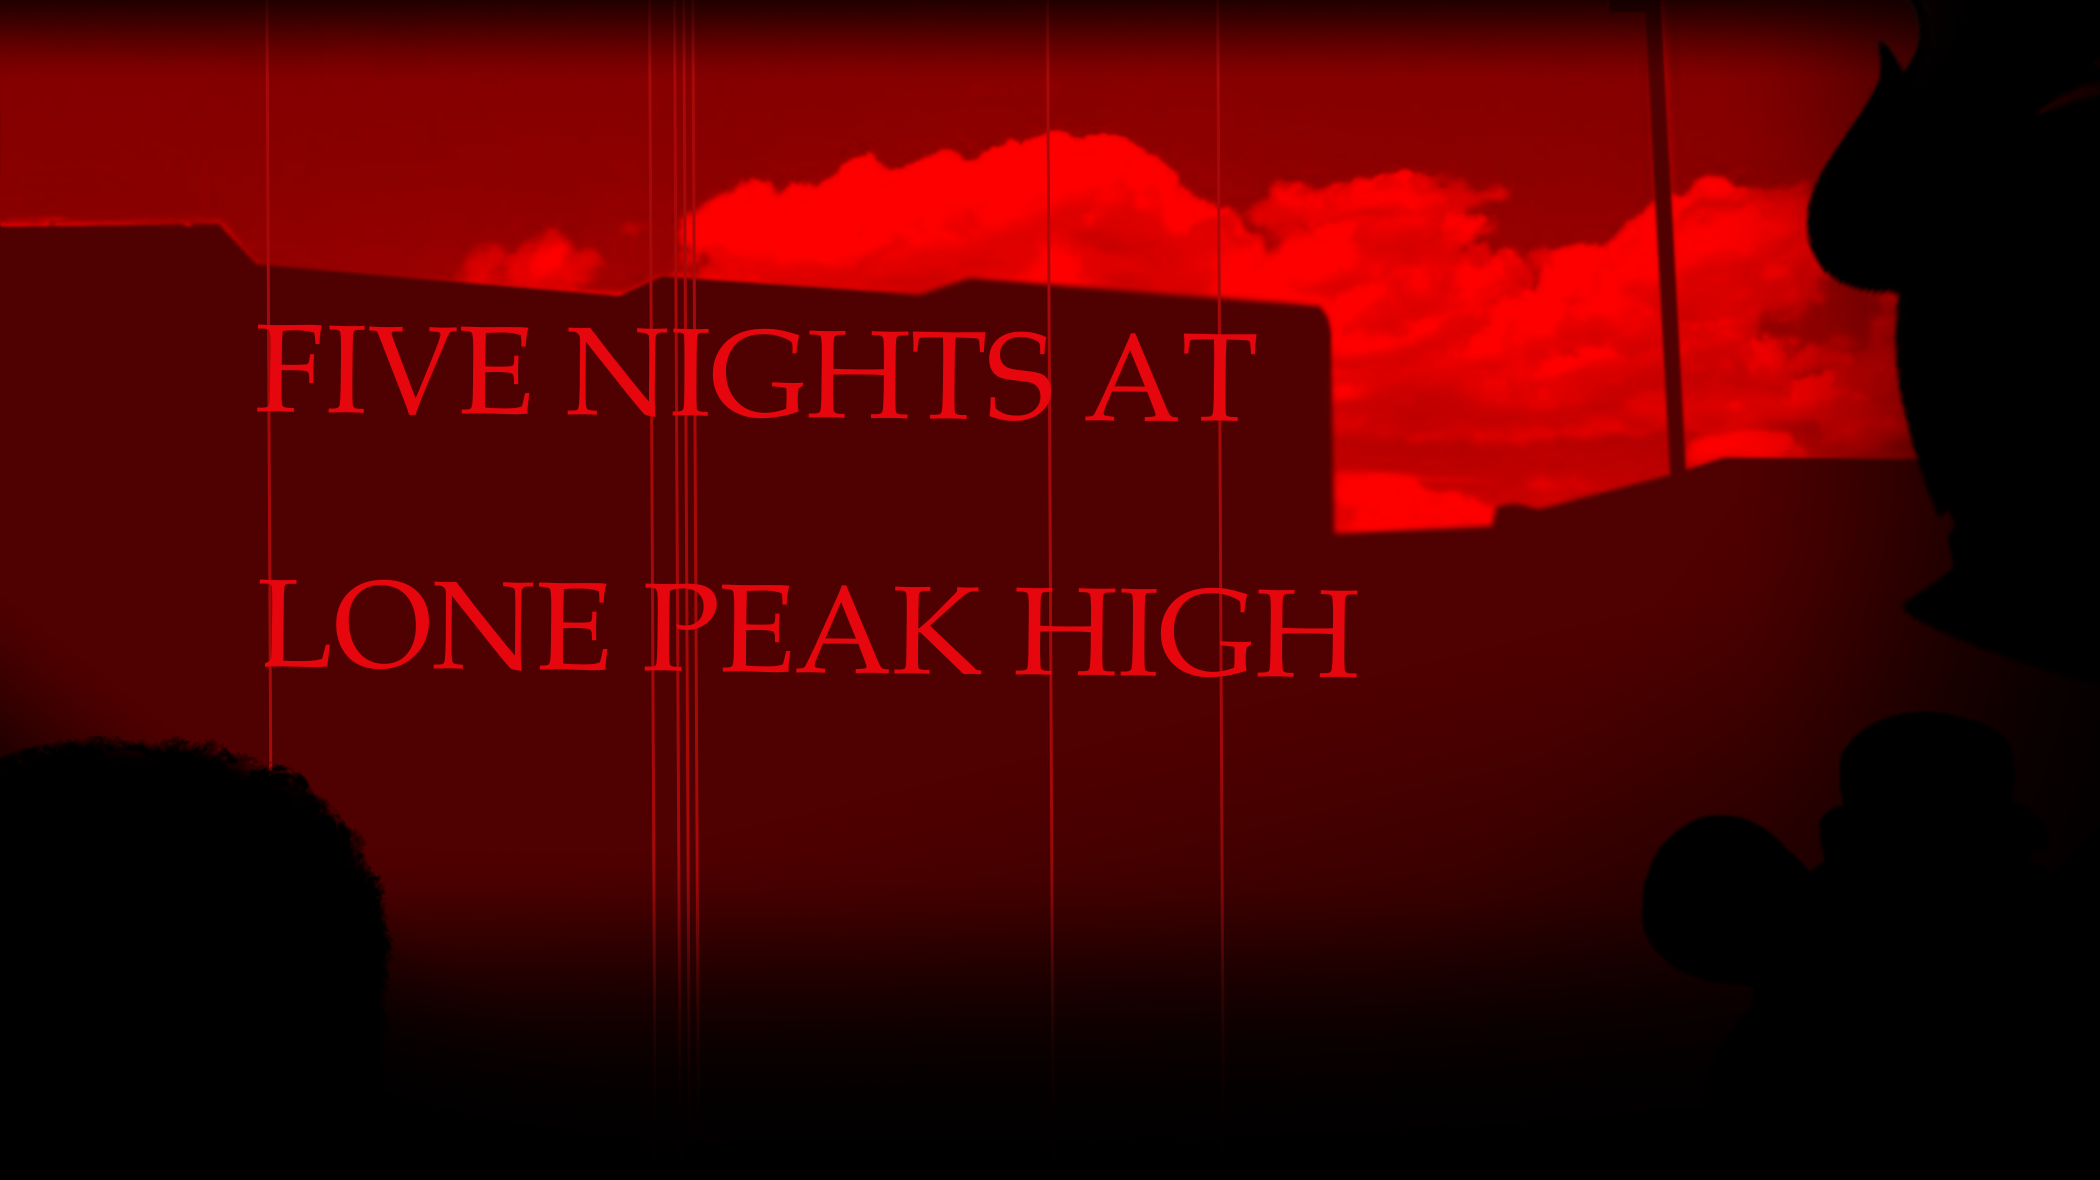
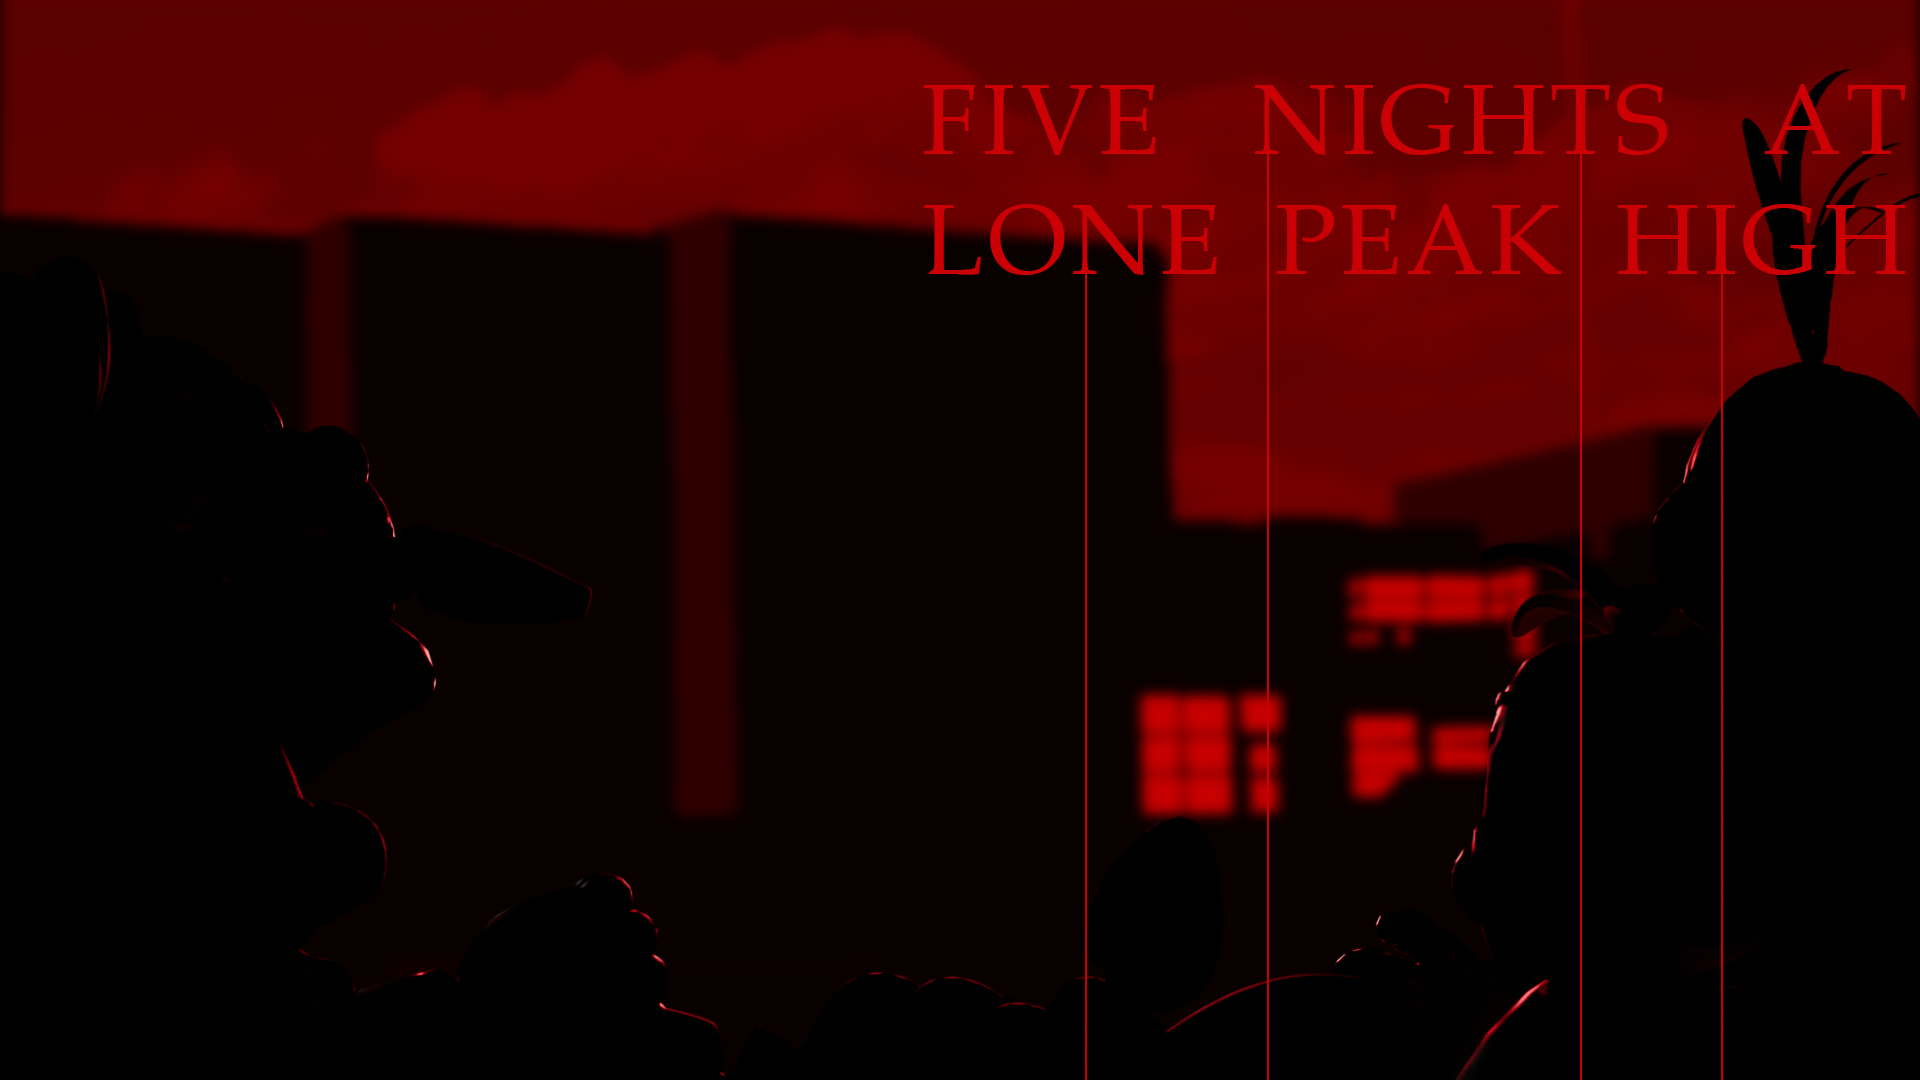
Change background image for main menu, shorten the knight running, and made the static less bright

diff --git a/gameplay/systems.py b/gameplay/systems.py
@@ -364,7 +364,9 @@ class Cameras(System):
     @staticmethod
     def draw_static(screen: pygame.surface.Surface, static):
         frame = random.randint(0, len(static) - 1)
-        screen.blit(static[frame], (0, 0))
+        image = static[frame].copy()
+        image.set_alpha(100)
+        screen.blit(image, (0, 0))
 
 
 class RecordIcon:
